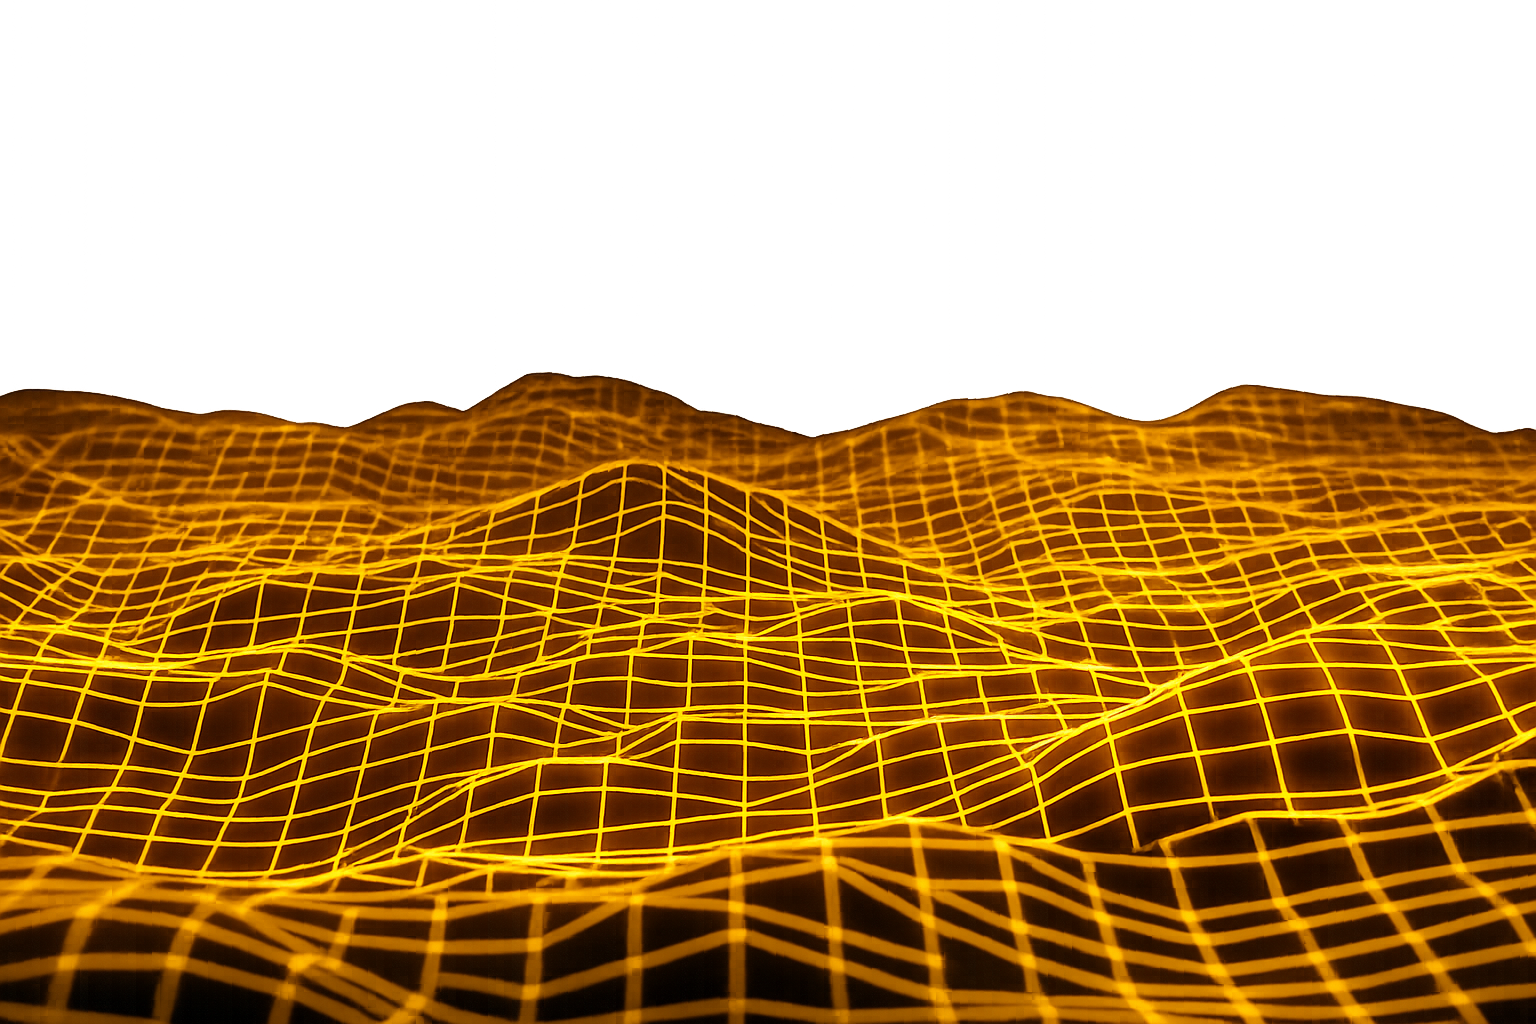
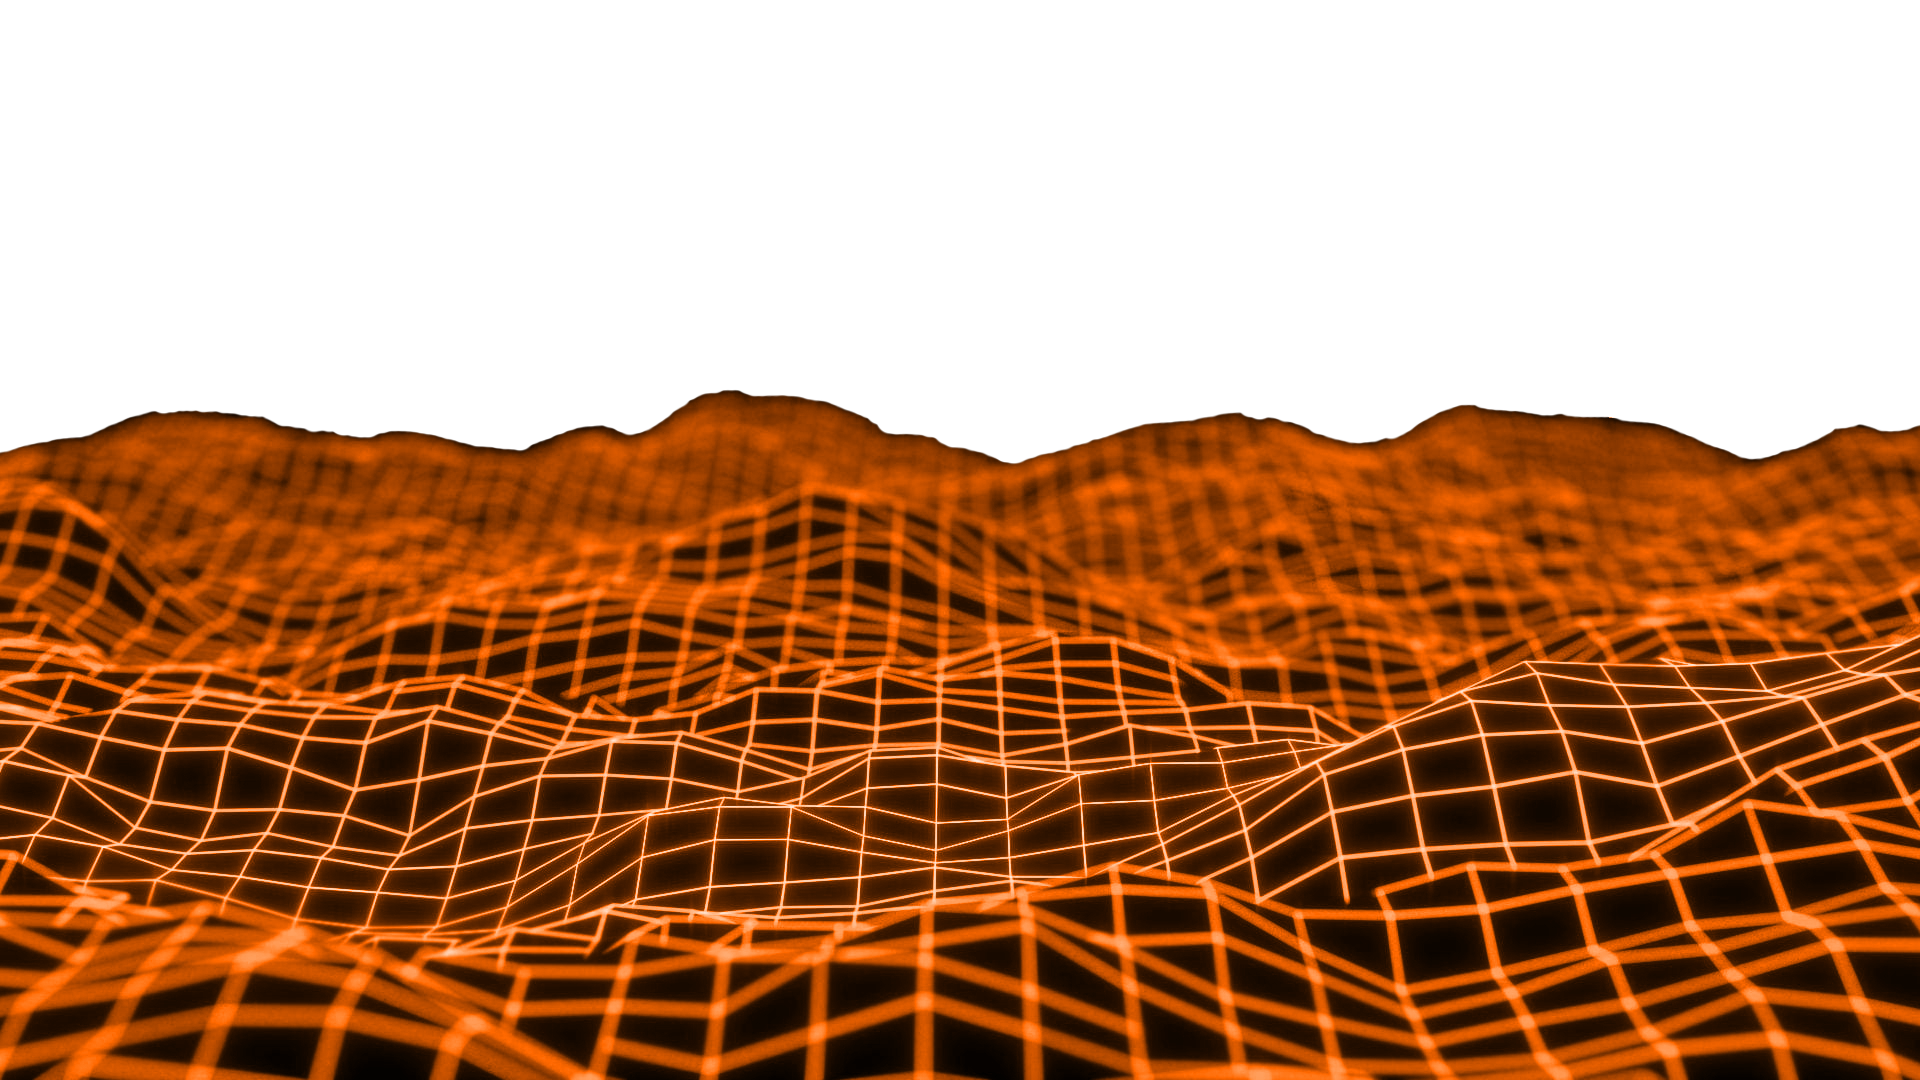
interface improvements

diff --git a/src/css/style.css b/src/css/style.css
@@ -1722,6 +1722,49 @@ footer {
   position:absolute; 
 }
 
+#review-form .stars{
+  gap:6px;
+}
+
+#review-form .stars input{
+  width:1px;
+  height:1px;
+  padding:0;
+  border:0;
+  margin:-1px;
+  overflow:hidden;
+  clip:rect(0 0 0 0);
+  white-space:nowrap;
+}
+
+#review-form .stars label{
+  width:42px;
+  height:42px;
+  flex:0 0 42px;
+  box-sizing:border-box;
+  display:grid;
+  padding:0;
+  color:#3d3d3d;
+  cursor:pointer;
+  place-items:center;
+  font-size:28px;
+  line-height:1;
+  border:2px solid #3d3d3d;
+  transition:color .16s ease, background .16s ease;
+}
+
+#review-form .stars label:hover,
+#review-form .stars label:hover ~ label,
+#review-form .stars input:checked ~ label{
+  color:#000;
+  background:var(--theme-accent);
+}
+
+#review-form .stars input:focus-visible + label{
+  outline:1px solid var(--theme-accent-bright);
+  outline-offset:2px;
+}
+
 .stars label{ 
   color:#333; 
   font-size:32px; 
@@ -1780,6 +1823,7 @@ footer {
   color:var(--theme-accent);
   user-select:none;
   margin-top: auto;
+  margin-bottom: clamp(10px, 2vw, 16px);
   position:relative;
   background:#000;
   display:inline-flex;

diff --git a/src/js/terminal/commands.js b/src/js/terminal/commands.js
@@ -35,18 +35,15 @@ export function createTerminalCommands({
   function getHelpText() {
     return `
 Commands:
-  CLEAR          - clear screen
-  GAMES          - list available games
-  Q  or  QUIT    - exit active application or game
-  THEME          - open CRT color profiles
-  NOTES          - open local quick notes
   POMODORO       - open focus timer (POMO also works)
+  NOTES          - open local quick notes
+  GAMES          - list available games
+  THEME          - open CRT color profiles
+  CLEAR          - clear screen
   CALC <expr>    - calculate a math expression (MATH also works)
   HELP  or  ?    - list of commands
 
-Math:
-  The terminal understands math directly. Try: 2 * (4 + 3), 2^10, or CALC 12 / 5
-  Supported: +  -  *  /  %  ^  ( )  decimals
+The terminal understands math directly.
 
 Games (type a game command to launch it):
 ${getGamesHelpText()}

diff --git a/src/js/ui/theme-switcher.js b/src/js/ui/theme-switcher.js
@@ -76,6 +76,18 @@ function updateSwitcherState() {
   }
 }
 
+function updateThemeImages(theme) {
+  const sourceKey = `themeImage${theme[0].toUpperCase()}${theme.slice(1)}`;
+
+  document.querySelectorAll('[data-theme-image]').forEach((image) => {
+    const source = image.dataset[sourceKey];
+
+    if (source && image.getAttribute('src') !== source) {
+      image.setAttribute('src', source);
+    }
+  });
+}
+
 export function getActiveTheme() {
   if (typeof document === 'undefined') return DEFAULT_THEME;
 
@@ -92,6 +104,7 @@ export function applyTheme(theme, { persist = true } = {}) {
   const changed = root.dataset.theme !== selectedTheme;
 
   root.dataset.theme = selectedTheme;
+  updateThemeImages(selectedTheme);
 
   if (persist) {
     try {

diff --git a/src/css/terminal-apps.css b/src/css/terminal-apps.css
@@ -175,9 +175,12 @@
 
 .pomodoro-app__body{
   min-height: 0;
-  display: grid;
-  grid-template-rows: auto minmax(0, 1fr) auto auto;
-  place-items: center;
+  display: flex;
+  flex: 1 1 auto;
+  overflow: auto;
+  align-items: center;
+  flex-direction: column;
+  justify-content: center;
   gap: clamp(0.75rem, 2vh, 1rem);
   padding: clamp(0.85rem, 2vw, 1.2rem);
 }
@@ -326,6 +329,12 @@
 
   .pomodoro-app__dial{
     width: min(190px, 55vw);
+  }
+}
+
+@media (max-height: 600px){
+  .pomodoro-app__body{
+    justify-content: flex-start;
   }
 }
 

diff --git a/src/index.html b/src/index.html
@@ -55,7 +55,13 @@
   <div class="about-photo">
     <div class="photo-frame">
       <div class="rain"></div>
-        <img src="assets/img/blade-runner-avatar.png" alt="Artem photo" />
+        <img
+          src="assets/img/blade-runner-avatar.png"
+          alt="Artem photo"
+          data-theme-image
+          data-theme-image-green="assets/img/blade-runner-avatar.png"
+          data-theme-image-orange="assets/img/blade-runner-avatar-orange.png"
+        />
       </div>
   </div>
       
